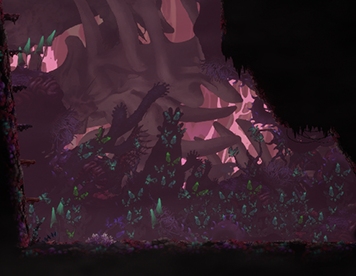
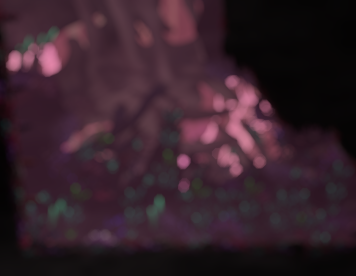
nya

diff --git a/Elma Pig.html b/Elma Pig.html
@@ -38,6 +38,15 @@
 
 <!-- Elma Pig -->
 
+<style>
+    body {
+     background-image: url('images/Pigger\ Infestation.png');
+     background-repeat: no-repeat;
+     backdrop-filter: blur(10px);
+     background-size: cover;
+   }
+</style>
+
 <div class="Elma__Pigger">
    <video controls autoplay loop playsinline style="pointer-events: none; width:100%" muted>
     <source src="Videos/Elma Pigger.mp4" type="video/mp4">

diff --git a/Pigger.html b/Pigger.html
@@ -37,14 +37,15 @@
    </nav>
 
    <!-- Pigger -->
+
    <style>
        body {
         background-image: url('images/Pigger\ Infestation.png');
         background-repeat: no-repeat;
-        backdrop-filter: blur(10px);
         background-size: cover;
       }
    </style>
+
    <img src="./images/Pigger.png">
    <audio autoplay loop id="Pigger Theme">
     <source src="Music/Pigger.mp3" type="audio/mp3" />

diff --git a/Filled With Nothing.html b/Filled With Nothing.html
@@ -38,6 +38,15 @@
 
 <!-- Filled With Nothing -->
 
+<style>
+    body {
+     background-image: url('images/Pigger\ Infestation.png');
+     background-repeat: no-repeat;
+     backdrop-filter: blur(10px);
+     background-size: cover;
+   }
+</style>
+
 <div class="Channel">
     <a href="https://www.youtube.com/channel/UC5h_NFeFhWwChdJEQzCcUbg">YouTube Channel</a>
       </div>

diff --git a/index.html b/index.html
@@ -38,6 +38,15 @@
 
 <!-- iCunny -->
 
+<style>
+    body {
+     background-image: url('images/Pigger\ Infestation.png');
+     background-repeat: no-repeat;
+     backdrop-filter: blur(10px);
+     background-size: cover;
+   }
+</style>
+
    <div class="main">
        <h1>Filled With Nothing Page currently being developed</h1>
        <h2>Discord invite in cumball page</h2>

diff --git a/Cumball.html b/Cumball.html
@@ -38,6 +38,15 @@
 
 <!-- Cumball -->
 
+<style>
+    body {
+     background-image: url('images/Pigger\ Infestation.png');
+     background-repeat: no-repeat;
+     backdrop-filter: blur(10px);
+     background-size: cover;
+   }
+</style>
+
   <div class="Cumball">
 <a href="https://discord.gg/Dhmpubpwsn">Our anarchy Discord server</a>
   </div>

diff --git a/Cunny.html b/Cunny.html
@@ -38,6 +38,15 @@
 
 <!-- Cunny -->
 
+<style>
+    body {
+     background-image: url('images/Pigger\ Infestation.png');
+     background-repeat: no-repeat;
+     backdrop-filter: blur(10px);
+     background-size: cover;
+   }
+</style>
+
    <a href="Elma Pig.html"><img src="./images/Loli Waiting.gif"></a>
 
    <script src="app.js"></script>

diff --git a/styles.css b/styles.css
@@ -3,6 +3,15 @@
     margin: 0;
     padding: 0;
   }
+  
+  html {
+    overflow:   scroll;
+  }
+  ::-webkit-scrollbar {
+      width: 0px;
+      height: 0px;
+      background: transparent; /* make scrollbar transparent */
+  }
 
   @font-face {
     font-family: 'Proxima Nova Cn Bl';
@@ -263,3 +272,4 @@
 }
 
   /* Pigger */
+  

diff --git a/Catgirls.html b/Catgirls.html
@@ -38,6 +38,15 @@
 
 <!-- Catgirl -->
 
+<style>
+    body {
+     background-image: url('images/Pigger\ Infestation.png');
+     background-repeat: no-repeat;
+     backdrop-filter: blur(10px);
+     background-size: cover;
+   }
+</style>
+
    <script src="app.js"></script>
 </body>
 </html>
